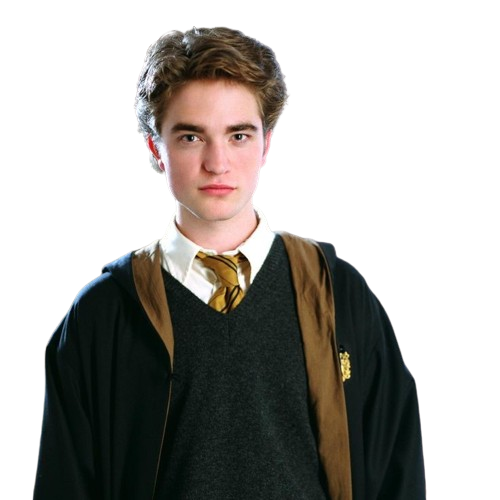
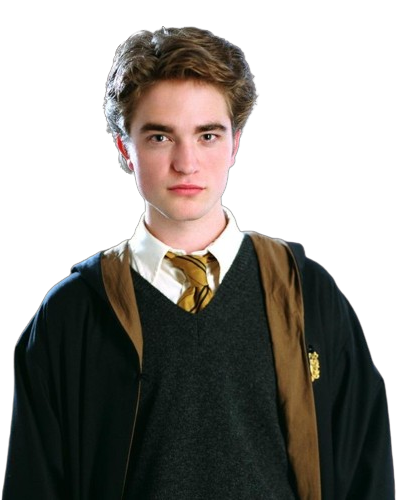
card content updated, not responsive yet

Changed region(s): [[0.0, 0.03, 0.9975, 1.0], [0.3023, 0.87, 0.3325, 0.93]]

diff --git a/public/assets/style/struktur.css b/public/assets/style/struktur.css
@@ -310,9 +310,18 @@ section {
     border: nonde;
 }
 
+.card-body img{
+    margin-bottom: -30px;
+}
+
 .card-footer {
     background-color: #0D0C33;
     color: #FFEACA ;
     border-radius: 8px !important;
     border: none;
+}
+
+.card-footer small {
+    font-weight: bolder;
+    font-size: 20px;
 }

diff --git a/resources/views/struktur.blade.php b/resources/views/struktur.blade.php
@@ -74,40 +74,145 @@
                 </div>
             </div>
             <div class="row row-cols-1 row-cols-md-3 g-4 mt-5 mx-5 px-5">
-                <div class="col">
+                <div class="col text-center">
                     <div class="card h-100">
-                    <div class="card-body">
-                        <h5 class="card-title">Card title</h5>
-                        <p class="card-text">This is a wider card with supporting text below as a natural lead-in to additional content. This content is a little bit longer.</p>
+                    <div class="card-body d-flex flex-column align-items-center justify-content-center">
+                        <h5 class="card-title">Ketua ASSETS</h5>
+                        <img src="../assets/image/rangga.png" width="250" class="img-fluid">
                     </div>
                     <div class="card-footer">
-                        <small class="text-body-secondary">Last updated 3 mins ago</small>
+                        <small class="text-body-secondary">Gisfa Putra Ryangga</small>
                     </div>
                     </div>
                 </div>
-                <div class="col">
+                <div class="col text-center">
                     <div class="card h-100">
-                    <div class="card-body">
+                    <div class="card-body d-flex flex-column align-items-center justify-content-center">
                         <h5 class="card-title">Card title</h5>
-                        <p class="card-text">This card has supporting text below as a natural lead-in to additional content.</p>
+                        <img src="../assets/image/cedric.png" width="250" class="img-fluid">
                     </div>
                     <div class="card-footer">
-                        <small class="text-body-secondary">Last updated 3 mins ago</small>
+                        <small class="text-body-secondary">todo</small>
                     </div>
                     </div>
                 </div>
-                <div class="col">
+                <div class="col text-center">
                     <div class="card h-100">
-                    <div class="card-body">
-                        <h5 class="card-title">Card title</h5>
-                        <p class="card-text">This is a wider card with supporting text below as a natural lead-in to additional content. This card has even longer content than the first to show that equal height action.</p>
+                    <div class="card-body d-flex flex-column align-items-center justify-content-center">
+                        <h5 class="card-title">Sekretaris Jenderal</h5>
+                        <img src="../assets/image/wisnu.png" width="250" class="img-fluid">
                     </div>
                     <div class="card-footer">
-                        <small class="text-body-secondary">Last updated 3 mins ago</small>
+                        <small class="text-body-secondary">Antonius Krisargo W. N.</small>
                     </div>
                     </div>
                 </div>
+            </div>
+            <div class="row row-cols-1 row-cols-md-3 g-4 mt-5 mx-5 px-5">
+                <div class="col text-center">
+                    <div class="card h-100">
+                    <div class="card-body d-flex flex-column align-items-center justify-content-center">
+                        <h5 class="card-title">Sekretaris 1</h5>
+                        <img src="../assets/image/ninis.png" width="250" class="img-fluid">
+                    </div>
+                    <div class="card-footer">
+                        <small class="text-body-secondary">Ninis Dyah Y.</small>
+                    </div>
+                    </div>
                 </div>
+                <div class="col text-center">
+                    <div class="card h-100">
+                    <div class="card-body d-flex flex-column align-items-center justify-content-center">
+                        <h5 class="card-title">Sekretaris 2</h5>
+                        <img src="../assets/image/manda.png" width="250" class="img-fluid">
+                    </div>
+                    <div class="card-footer">
+                        <small class="text-body-secondary">Amanda Farliana S.</small>
+                    </div>
+                    </div>
+                </div>
+                <div class="col text-center">
+                    <div class="card h-100">
+                    <div class="card-body d-flex flex-column align-items-center justify-content-center">
+                        <h5 class="card-title">Bendahara 1</h5>
+                        <img src="../assets/image/rengganis.png" width="250" class="img-fluid">
+                    </div>
+                    <div class="card-footer">
+                        <small class="text-body-secondary">Rengganis W. P.</small>
+                    </div>
+                    </div>
+                </div>
+            </div>
+            <div class="row row-cols-1 row-cols-md-3 g-4 mt-5 mx-5 px-5" class="img-fluid">
+                <div class="col text-center">
+                    <div class="card h-100">
+                    <div class="card-body d-flex flex-column align-items-center justify-content-center">
+                        <h5 class="card-title">Bendahara 2</h5>
+                        <img src="../assets/image/lea.png" width="250" class="img-fluid">
+                    </div>
+                    <div class="card-footer">
+                        <small class="text-body-secondary">Maria Azalea N.</small>
+                    </div>
+                    </div>
+                </div>
+                <div class="col text-center">
+                    <div class="card h-100">
+                    <div class="card-body d-flex flex-column align-items-center justify-content-center">
+                        <h5 class="card-title">Kepala Divisi PSDM</h5>
+                        <img src="../assets/image/christo.png" width="250" class="img-fluid">
+                    </div>
+                    <div class="card-footer">
+                        <small class="text-body-secondary">Christophorus A. H. D.</small>
+                    </div>
+                    </div>
+                </div>
+                <div class="col text-center">
+                    <div class="card h-100">
+                    <div class="card-body d-flex flex-column align-items-center justify-content-center">
+                        <h5 class="card-title">Kepala Divisi Kreatif</h5>
+                        <img src="../assets/image/alan.png" width="250" class="img-fluid">
+                    </div>
+                    <div class="card-footer">
+                        <small class="text-body-secondary">Radivan Alan N.</small>
+                    </div>
+                    </div>
+                </div>
+            </div>
+            <div class="row row-cols-1 row-cols-md-3 g-4 mt-5 mx-5 px-5">
+                <div class="col text-center">
+                    <div class="card h-100">
+                    <div class="card-body d-flex flex-column align-items-center justify-content-center">
+                        <h5 class="card-title">Kepala Divisi Minkat</h5>
+                        <img src="../assets/image/farhan.png" width="250" class="img-fluid">
+                    </div>
+                    <div class="card-footer">
+                        <small class="text-body-secondary">Farhan Akmal Shaleh</small>
+                    </div>
+                    </div>
+                </div>
+                <div class="col text-center">
+                    <div class="card h-100">
+                    <div class="card-body d-flex flex-column align-items-center justify-content-center">
+                        <h5 class="card-title">Kepala Divisi Humas</h5>
+                        <img src="../assets/image/repan.png" width="250" class="img-fluid">
+                    </div>
+                    <div class="card-footer">
+                        <small class="text-body-secondary">Revandra Aryo Dwi K.</small>
+                    </div>
+                    </div>
+                </div>
+                <div class="col text-center">
+                    <div class="card h-100">
+                    <div class="card-body d-flex flex-column align-items-center justify-content-center">
+                        <h5 class="card-title">Kepala Divisi Kastrad</h5>
+                        <img src="../assets/image/taza.png" width="250" class="img-fluid">
+                    </div>
+                    <div class="card-footer">
+                        <small class="text-body-secondary">Ahmad F. Mumtaza</small>
+                    </div>
+                    </div>
+                </div>
+            </div>
         </section>
 
             <section id="visi">
@@ -127,7 +232,7 @@
                                 </div>
                                 <div class="col-md-6">
                                     <img src="../assets/image/Picture1.png"
-                                        class="bd-placeholder-img bd-placeholder-img-lg featurette-image img-reveal"
+                                        class="bd-placeholder-img bd-placeholder-img-lg featurette-image img-reveal img-fluid"
                                         alt="Image of about" width="400" height="auto" loading="lazy">
                                 </div>
                             </div>
